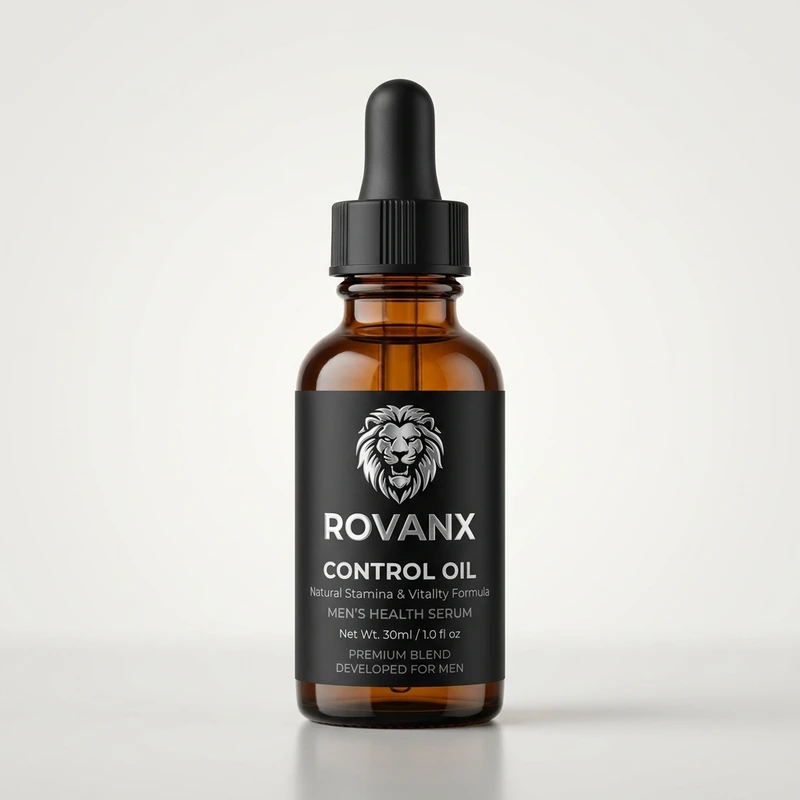
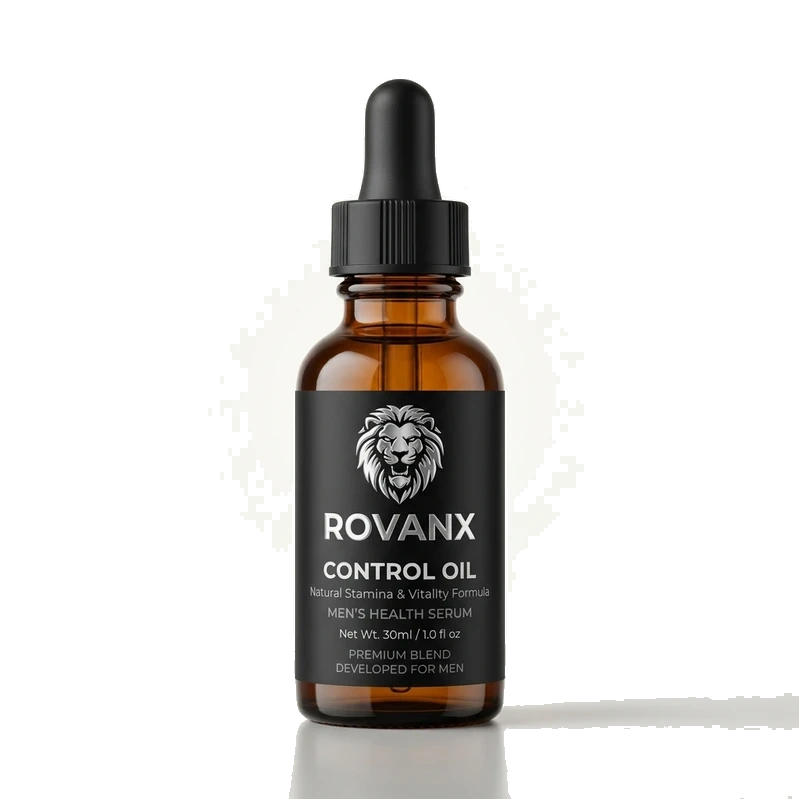
feat(design): make product cards transparent with frosted glass and transparent packshots in best sellers and shop

diff --git a/src/components/store/product-card.tsx b/src/components/store/product-card.tsx
@@ -12,12 +12,96 @@ type ProductCardProduct = Pick<
   "id" | "name" | "slug" | "sku" | "shortDescription" | "regularPrice" | "salePrice" | "featured" | "hero"
 >;
 
-export function ProductCard({ product }: { product: ProductCardProduct }) {
+export function ProductCard({
+  product,
+  darkTheme = false
+}: {
+  product: ProductCardProduct;
+  darkTheme?: boolean;
+}) {
   const price = product.salePrice || product.regularPrice;
   const visual = getProductVisual(product.slug);
   const detail = getProductDetail(product.slug);
   const shortDescription = detail?.shortDescription || product.shortDescription;
   const productName = detail?.name || product.name;
+
+  if (darkTheme) {
+    return (
+      <article className="group relative grid overflow-hidden rounded-2xl border border-white/10 bg-white/[0.04] backdrop-blur-md transition-all duration-300 hover:-translate-y-1 hover:border-bronze-500/50 hover:bg-white/[0.08] hover:shadow-2xl hover:shadow-black/50 text-white">
+        <Link
+          href={`/product/${product.slug}`}
+          className="relative m-3 flex min-h-[260px] items-center justify-center overflow-hidden rounded-xl border border-white/10 bg-white/[0.02] backdrop-blur-sm p-4 transition-all duration-300 group-hover:bg-white/[0.05] group-hover:border-bronze-500/30"
+        >
+          {visual ? (
+            <img
+              src={visual.src}
+              alt={visual.alt}
+              className="product-packshot product-packshot-card drop-shadow-[0_20px_25px_rgba(0,0,0,0.5)] transition-transform duration-500 group-hover:scale-105"
+            />
+          ) : (
+            <span className="max-w-[13ch] text-balance text-xl font-black leading-tight text-white">{product.name}</span>
+          )}
+        </Link>
+        <div className="grid gap-4 p-5 pt-1">
+          <div className="flex min-h-7 flex-wrap gap-2">
+            {detail?.badge ? (
+              <span className="badge border-bronze-400/30 bg-bronze-500/15 text-xs font-bold text-bronze-300">
+                {detail.badge}
+              </span>
+            ) : null}
+            {product.salePrice ? (
+              <span className="badge border-white/15 bg-white/10 text-xs font-bold text-white">
+                <LocalizedText id="offer" />
+              </span>
+            ) : null}
+            {product.hero || product.featured ? (
+              <span className="badge border-amber-400/30 bg-amber-500/15 text-xs font-bold text-amber-300">
+                <LocalizedText id="selectionPremium" />
+              </span>
+            ) : null}
+          </div>
+          <Link href={`/product/${product.slug}`}>
+            <h3 className="text-xl font-black leading-tight text-white transition-colors group-hover:text-bronze-400">
+              {productName}
+            </h3>
+          </Link>
+          <p className="min-h-12 text-sm leading-6 text-white/70 line-clamp-2">{shortDescription}</p>
+          <div className="grid grid-cols-3 gap-2 text-center text-[11px] font-black uppercase text-white/70">
+            {[
+              ["COD", "COD"],
+              ["phoneCall", "Appel"],
+              ["delivery", "Livraison"]
+            ].map(([key, fallback]) => (
+              <span key={key} className="rounded-md border border-white/10 bg-white/[0.05] px-2 py-2 text-bronze-300">
+                {key === "COD" ? fallback : <LocalizedText id={key as "phoneCall" | "delivery"} />}
+              </span>
+            ))}
+          </div>
+          <div className="flex items-end justify-between gap-3 border-t border-white/10 pt-4">
+            <strong className="text-2xl font-black text-white">
+              <Money value={price} />
+            </strong>
+            {product.salePrice ? (
+              <span className="text-sm text-white/50 line-through">
+                <Money value={product.regularPrice} />
+              </span>
+            ) : null}
+          </div>
+          <AddToCartButton
+            product={{
+              id: product.id,
+              name: product.name,
+              slug: product.slug,
+              sku: product.sku,
+              price,
+              regularPrice: product.regularPrice
+            }}
+          />
+        </div>
+      </article>
+    );
+  }
+
   return (
     <article className="surface-card grid overflow-hidden transition duration-200 hover:-translate-y-1 hover:border-bronze-500/45">
       <Link

diff --git a/src/app/(store)/page.tsx b/src/app/(store)/page.tsx
@@ -135,11 +135,11 @@ export default async function HomePage() {
             priority
             unoptimized
             sizes="100vw"
-            className="object-cover object-top opacity-60 md:opacity-75"
+            className="object-cover object-top opacity-65 md:opacity-80"
           />
           {/* Subtle depth gradients for readability & dark continuity */}
-          <div className="absolute inset-0 bg-gradient-to-t from-[#12141a] via-[#12141a]/55 to-[#12141a]/45" />
-          <div className="absolute inset-0 bg-gradient-to-r from-[#12141a]/80 via-transparent to-[#12141a]/80" />
+          <div className="absolute inset-0 bg-gradient-to-t from-[#12141a] via-[#12141a]/50 to-[#12141a]/40" />
+          <div className="absolute inset-0 bg-gradient-to-r from-[#12141a]/70 via-transparent to-[#12141a]/70" />
         </div>
         <div className="absolute inset-x-0 top-0 h-px bg-gradient-to-r from-transparent via-bronze-500/70 to-transparent" />
 
@@ -156,7 +156,7 @@ export default async function HomePage() {
           </div>
           <div className="grid gap-6 sm:grid-cols-2 lg:grid-cols-3">
             {featured.map((product) => (
-              <ProductCard key={product.id} product={product} />
+              <ProductCard key={product.id} product={product} darkTheme />
             ))}
           </div>
         </div>

diff --git a/src/app/(store)/shop/page.tsx b/src/app/(store)/shop/page.tsx
@@ -79,7 +79,7 @@ export default async function ShopPage({
         {products.length ? (
           <div className="grid gap-6 sm:grid-cols-2 lg:grid-cols-3">
             {products.map((product) => (
-              <ProductCard key={product.id} product={product} />
+              <ProductCard key={product.id} product={product} darkTheme />
             ))}
           </div>
         ) : (
